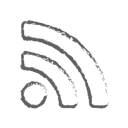
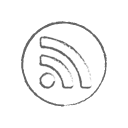
RSS

Changed region(s): [[0.1562, 0.1562, 0.8438, 0.875], [0.8438, 0.7812, 0.875, 0.8125]]

diff --git a/about/syndication.html b/about/syndication.html
@@ -54,11 +54,11 @@
 		<!-- Page content -->		
 		<div id="page" class="page">
 			
-			<header id="page-header">
+			<header id="page-header" class="ktr-header">
 				<div>
 					<h1><a href="http://www.acozar.com" title="www.acozar.com" class="notranslate"><small>www.</small>acózar<small>.com</small></a></h1>
-					<p>- Acózar RSS -</p>
-					<a href="<$BlogUrl$>" title="<$BlogTitle$>"><img src="https://acozar.github.io/src/img/ktr-icons-stilo.png" alt="Blog" class="ktr-logo"></a>
+					<p>- RSS & Feeds -</p>
+					<a href="<$BlogUrl$>" title="<$BlogTitle$>"><img src="https://acozar.github.io/src/img/ktr-icons-rss.png" alt="RSS" class="ktr-logo"></a>
 					<br>
 				</div>
 			</header>
@@ -71,35 +71,39 @@
 								<p>Site: <a href="http://blog.acozar.com/" title="Site url">http://blog.acozar.com/</a></p>
 								<p>RSS: <a href="http://blog.acozar.com/feeds/posts/default" title="Feed url">http://blog.acozar.com/feeds/posts/default</a></p>
 							</header>
-							<div id="rss-verbum" class="gallery"></div>
+							<div><h6 class="text-center">Latest posts</h6><div id="rss-verbum" class="gallery"></div></div>
 						</section>
 						<section>
 							<header>
 								<h3>Illustratio (Gallery)</h3>
-								<p><a href="http://graphic.acozar.com/feeds/posts/default" title="Feed url">http://graphic.acozar.com/feeds/posts/default</a></p>
+								<p>Site: <a href="http://graphic.acozar.com/" title="Site url">http://graphic.acozar.com/</a></p>
+								<p>RSS: <a href="http://graphic.acozar.com/feeds/posts/default" title="Feed url">http://graphic.acozar.com/feeds/posts/default</a></p>
 							</header>
-							<div><div id="rss-illustratio" class="gallery"></div></div>
+							<div><h6 class="text-center">Latest posts</h6><div id="rss-illustratio" class="gallery"></div></div>
 						</section>
 						<section>
 							<header>
 								<h3>Imago (Photoblog)</h3>
-								<p><a href="http://photo.acozar.com/feeds/posts/default" title="Feed url">http://photo.acozar.com/feeds/posts/default</a></p>
+								<p>Site: <a href="http://photo.acozar.com/" title="Site url">http://photo.acozar.com/</a></p>
+								<p>RSS: <a href="http://photo.acozar.com/feeds/posts/default" title="Feed url">http://photo.acozar.com/feeds/posts/default</a></p>
 							</header>
-							<div id="rss-imago" class="gallery"></div>
+							<div><h6 class="text-center">Latest posts</h6><div id="rss-imago" class="gallery"></div></div>
 						</section>
 						<section>
 							<header>
 								<h3>Register (Videoblog)</h3>
-								<p><a href="http://video.acozar.com/feeds/posts/default" title="Feed url">http://video.acozar.com/feeds/posts/default</a></p>
+								<p>Site: <a href="http://video.acozar.com/" title="Site url">http://video.acozar.com/</a></p>
+								<p>RSS: <a href="http://video.acozar.com/feeds/posts/default" title="Feed url">http://video.acozar.com/feeds/posts/default</a></p>
 							</header>
-							<div id="rss-register" class="gallery"></div>
+							<div><h6 class="text-center">Latest posts</h6><div id="rss-register" class="gallery"></div></div>
 						</section>
 						<section>
 							<header>
 								<h3>Codex (Developement blog)</h3>
-								<p><a href="https://acozar.github.io/feed.xml" title="Feed url">https://acozar.github.io/feed.xml</a></p>
+								<p>Site: <a href="https://acozar.github.io/" title="Site url">https://acozar.github.io/</a></p>
+								<p>RSS: <a href="https://acozar.github.io/feed.xml" title="Feed url">https://acozar.github.io/feed.xml</a></p>
 							</header>
-							<div id="rss-codex" class="gallery"></div>
+							<div><h6 class="text-center">Latest posts</h6><div id="rss-codex" class="gallery"></div></div>
 						</section>
 						<hr>
 				</div>
